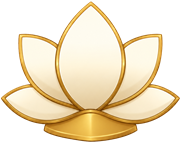
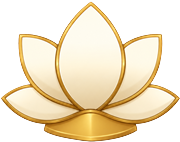
전투화면 화살표 버그, 신통력 3개 이상인데 불 안들어오는 버그, 맵 상단바 자꾸틀어짐 ㅅㅂ 수정, 전투 상세 마우스 오버 툴팁 설정, 쓸데없는 토스트 메시지 수정

diff --git a/mailbox.css b/mailbox.css
@@ -21,7 +21,6 @@
 
 .mailbox-ui-head{
   flex:none; display:flex; align-items:center; gap:1cqw;
-  padding-bottom:1.2cqh; border-bottom:0.15cqh solid var(--c-panel-line);
 }
 .mailbox-ui-title{ flex:1; font-size:2.99cqh; font-weight:900; color:#4a2b07; text-shadow:0 .08cqh 0 rgba(255,255,255,.78); }
 .mailbox-ui-wallet{
@@ -32,14 +31,15 @@
 }
 .mailbox-wallet-icon{ font-size:2.3cqh; }
 .mailbox-ui-close{
-  width:4.2cqh; height:4.2cqh; border-radius:50%; border:0.2cqh solid var(--c-panel-line);
-  background:#fff; color:var(--c-ink); font-size:2.53cqh; font-weight:900; line-height:1; cursor:pointer;
+  flex:none; width:4.4cqh; height:4.4cqh; border:0; border-radius:0; box-shadow:none;
+  background:transparent url("assets/ui_buttons/close.png") center/100% 100% no-repeat;
+  color:transparent; font-size:0; line-height:1; cursor:pointer;
 }
 
 .mailbox-ui-tabs{ flex:none; display:flex; gap:.8cqw; }
 .mailbox-tab{
-  flex:1; height:4.2cqh; border-radius:1cqh; border:0.18cqh solid var(--c-panel-line);
-  background:rgba(255,255,255,.96); color:#3a2408; font:inherit; font-size:1.95cqh; font-weight:900; cursor:pointer;
+  flex:1; height:4.2cqh; border-radius:1cqh; border:0.18cqh solid rgba(184,137,36,.32);
+  background:rgba(255,255,255,.92); color:#5a3b12; font:inherit; font-size:1.95cqh; font-weight:900; cursor:pointer;
   text-shadow:0 .06cqh 0 rgba(255,255,255,.86);
 }
 .mailbox-tab.active{
@@ -54,13 +54,13 @@
 .mailbox-status-msg{ margin:auto; text-align:center; color:#4f3410; font-size:2.07cqh; font-weight:900; text-shadow:0 .06cqh 0 rgba(255,255,255,.7); }
 .mailbox-status-error{ color:var(--c-red-deep); }
 .mailbox-retry-btn{
-  margin:0 auto; height:4cqh; padding:0 1.4cqw; border-radius:1cqh; border:0.18cqh solid var(--c-panel-line);
-  background:#fff; color:var(--c-ink); font:inherit; font-size:1.84cqh; font-weight:900; cursor:pointer;
+  margin:0 auto; height:4cqh; padding:0 1.4cqw; border-radius:1cqh; border:0.18cqh solid rgba(184,137,36,.32);
+  background:#fff; color:#3a2408; font:inherit; font-size:1.84cqh; font-weight:900; cursor:pointer;
 }
 
 .mailbox-item{
-  display:flex; align-items:center; gap:1cqw; background:rgba(255,255,255,.6);
-  border:0.16cqh solid var(--c-panel-line); border-radius:1.2cqh; padding:1.2cqh 1.2cqw;
+  display:flex; align-items:center; gap:1cqw; background:rgba(255,253,242,.66);
+  border:0.16cqh solid rgba(184,137,36,.28); border-radius:1.2cqh; padding:1.2cqh 1.2cqw;
 }
 .mailbox-item.claimed{ opacity:.55; }
 .mailbox-item-icon{ flex:none; font-size:3.68cqh; line-height:1; }
@@ -71,9 +71,9 @@
 .mailbox-item-reward{ color:#8a5a0a; }
 .mailbox-item-expiry{ color:var(--c-red-deep); }
 .mailbox-claim-btn{
-  flex:none; height:4.4cqh; min-width:8cqw; border-radius:1cqh; border:0.2cqh solid var(--c-panel-line);
-  background:linear-gradient(180deg,#4f95dd,#2869b4); color:#fff; font:inherit; font-size:1.84cqh; font-weight:900; cursor:pointer;
-  text-shadow:0 .12cqh .18cqh rgba(15,35,70,.45);
+  flex:none; height:4.4cqh; min-width:8cqw; border-radius:1cqh; border:0.2cqh solid #a97a1f;
+  background:linear-gradient(180deg,#ffe9a8,#d9a53c); color:#4a2b07; font:inherit; font-size:1.84cqh; font-weight:900; cursor:pointer;
+  text-shadow:0 .08cqh 0 rgba(255,255,255,.55);
 }
 .mailbox-claim-btn:disabled{
   background:rgba(238,232,216,.92); color:#5f5140; cursor:default; border-color:rgba(160,130,70,.26);
@@ -99,16 +99,16 @@
 
 .mailbox-ui-actions{ flex:none; display:flex; gap:1cqw; }
 .mailbox-claim-all-btn{
-  flex:1; height:4.6cqh; border-radius:1cqh; border:0.2cqh solid var(--c-panel-line);
+  flex:1; height:4.6cqh; border-radius:1cqh; border:0.2cqh solid #b98924;
   background:linear-gradient(180deg,#fff5d2,#e2bd58); color:#3a2408; font:inherit; font-size:2.07cqh; font-weight:900; cursor:pointer;
-  border-color:#b98924; text-shadow:0 .08cqh 0 rgba(255,255,255,.72);
+  text-shadow:0 .08cqh 0 rgba(255,255,255,.72);
 }
 .mailbox-claim-all-btn:disabled{
   background:rgba(238,232,216,.92); color:#5f5140; cursor:default;
   text-shadow:0 .06cqh 0 rgba(255,255,255,.74);
 }
 .mailbox-close-btn{
-  flex:none; min-width:10cqw; height:4.6cqh; border-radius:1cqh; border:0.2cqh solid var(--c-panel-line);
+  flex:none; min-width:10cqw; height:4.6cqh; border-radius:1cqh; border:0.2cqh solid rgba(184,137,36,.32);
   background:rgba(255,255,255,.96); color:#3a2408; font:inherit; font-size:2.07cqh; font-weight:900; cursor:pointer;
   text-shadow:0 .06cqh 0 rgba(255,255,255,.86);
 }

diff --git a/battleDragDrop.js b/battleDragDrop.js
@@ -3,6 +3,9 @@
    드래그 & 드롭
    ========================================================================= */
 const DRAG_THRESHOLD = 8;
+// 알트탭 등으로 창이 포커스를 잃으면 pointerup/pointercancel이 발생하지 않아
+// 드래그 상태가 정리되지 않고 조준 화살표가 화면에 남는 문제를 방지하기 위한 참조.
+let activeDragCleanup = null;
 function attachDrag(cardEl, index){
   let startX=0, startY=0, dragging=false, pid=null;
   cardEl.addEventListener("pointerdown", down);
@@ -26,6 +29,7 @@ function attachDrag(cardEl, index){
     cardEl.addEventListener("pointermove",   move);
     cardEl.addEventListener("pointerup",     up);
     cardEl.addEventListener("pointercancel", cancel);
+    activeDragCleanup = cleanup;
   }
   function move(ev){
     const dx=ev.clientX-startX, dy=ev.clientY-startY;
@@ -39,7 +43,17 @@ function attachDrag(cardEl, index){
     cardEl.removeEventListener("pointermove",   move);
     cardEl.removeEventListener("pointerup",     up);
     cardEl.removeEventListener("pointercancel", cancel);
+    if(activeDragCleanup===cleanup) activeDragCleanup=null;
   }
+}
+
+window.addEventListener("blur", forceEndActiveDrag);
+document.addEventListener("visibilitychange", function(){
+  if(document.hidden) forceEndActiveDrag();
+});
+function forceEndActiveDrag(){
+  if(activeDragCleanup){ const fn=activeDragCleanup; activeDragCleanup=null; fn(); }
+  if(dragState) endDrag();
 }
 
 let dragState = null;

diff --git a/mapUI.css b/mapUI.css
@@ -33,8 +33,8 @@
   /* 배경 아트(둥근 알약 모양 플레이트) 위에 얹히는 텍스트라 자체 배경/테두리는
      그리지 않는다. 플레이트 중앙에 오도록 오른쪽/아래로 살짝 이동만 준다. */
   position: absolute;
-  left: 6.2%;
-  top: 68%;
+  left: 7%;
+  top: 65%;
   display: flex;
   align-items: center;
   gap: 0.6cqw;
@@ -77,7 +77,7 @@
 }
 .dmap-title-char {
   position: absolute;
-  top: 0.7cqh;
+  top: 1.3cqh;
   display: block;
   width: 4.8cqh;
   height: 4.8cqh;
@@ -127,7 +127,7 @@
      당겨져 있으므로, 플레이타임도 그만큼 왼쪽으로 당겨 서로 겹치지 않게 한다. */
   position: absolute;
   left: 76%;
-  top: 50%;
+  top: calc(50% + 0.6cqh);
   display: flex;
   align-items: center;
   gap: 0.5cqw;
@@ -147,8 +147,8 @@
 
 .dmap-close {
   position: absolute;
-  right: 6.5cqw;
-  top: 50%;
+  right: 5.5cqw;
+  top: calc(50% + 0.6cqh);
   justify-self: auto;
   width: 4.6cqh;
   height: 4.6cqh;

diff --git a/settingsViewer.js b/settingsViewer.js
@@ -462,17 +462,17 @@
       ".settings-viewer.show{display:grid;}" +
       ".settings-viewer.start-mode{z-index:300!important;}" +
       ".settings-viewer-panel{position:relative;width:min(86cqw,124cqh);max-height:86cqh;display:flex;flex-direction:column;background:transparent url('assets/ui/settings/outer_panel.png') center/100% 100% no-repeat;border:0;border-radius:1.6cqh;box-shadow:0 2cqh 4cqh rgba(0,0,0,.28);padding:3.2cqh 3cqw 2.8cqh;}" +
-      ".settings-viewer-head{display:flex;align-items:center;gap:1cqw;padding-bottom:1.2cqh;border-bottom:0.15cqh solid var(--c-panel-line);}" +
-      ".settings-viewer-head h2{font-size:3cqh;line-height:1;flex:1;}" +
+      ".settings-viewer-head{display:flex;align-items:center;gap:1cqw;padding-bottom:1.2cqh;}" +
+      ".settings-viewer-head h2{font-size:3cqh;line-height:1;flex:1;color:#4a2b07;}" +
       ".settings-viewer-help{width:4.4cqh;height:4.4cqh;border:0;background:transparent url('assets/ui/settings/help.png') center/contain no-repeat;color:transparent;font-size:0;line-height:1;cursor:pointer;}" +
       ".settings-viewer-close{width:4.8cqh;height:4.8cqh;border:0;background:transparent url('assets/ui/settings/close.png') center/contain no-repeat;color:transparent;font-size:0;line-height:1;cursor:pointer;}" +
       ".settings-viewer-body{padding:2cqh 0 0;min-height:18cqh;display:flex;flex-direction:column;gap:2cqh;}" +
       ".settings-viewer-section{border:0.18cqh solid var(--c-panel-line);border-radius:1.2cqh;background:rgba(255,255,255,.58);padding:1.6cqh 1.4cqw;}" +
       ".settings-viewer-section:not(.settings-account-section){background:transparent url('assets/ui/settings/settings_panel.png') center/100% 100% no-repeat;border:0;padding:2.1cqh 2cqw;}" +
       ".settings-account-section{position:relative;background:transparent url('assets/ui/settings/account_info_panel.png') center/100% 100% no-repeat;border:0;padding:2.1cqh 2cqw;}" +
-      ".settings-viewer-section h3{font-size:2.1cqh;margin-bottom:1.4cqh;color:var(--c-ink);}" +
-      ".settings-viewer-volume{display:grid;grid-template-columns:8cqw minmax(0,1fr) 3.4cqw 4.2cqh;align-items:center;gap:1cqw;margin-top:1.4cqh;color:var(--c-ink-soft);font-size:1.7cqh;font-weight:800;}" +
-      ".settings-viewer-volume output{text-align:right;color:var(--c-ink);font-weight:900;}" +
+      ".settings-viewer-section h3{font-size:2.1cqh;margin-bottom:1.4cqh;color:#4a2b07;}" +
+      ".settings-viewer-volume{display:grid;grid-template-columns:8cqw minmax(0,1fr) 3.4cqw 4.2cqh;align-items:center;gap:1cqw;margin-top:1.4cqh;color:#6f4210;font-size:1.7cqh;font-weight:800;}" +
+      ".settings-viewer-volume output{text-align:right;color:#3a2408;font-weight:900;}" +
       ".settings-viewer-volume input[type=\"range\"]{-webkit-appearance:none;appearance:none;width:100%;height:3.2cqh;background:transparent;margin:0;padding:0;cursor:pointer;}" +
       ".settings-viewer-volume input[type=\"range\"]::-webkit-slider-runnable-track{height:.9cqh;border-radius:1cqh;background:linear-gradient(90deg,var(--c-gold-deep) 0%,var(--c-gold) var(--val,50%),rgba(255,255,255,.6) var(--val,50%),rgba(255,255,255,.6) 100%);border:.12cqh solid var(--c-gold-deep);box-shadow:inset 0 .12cqh .22cqh rgba(90,60,10,.28);}" +
       ".settings-viewer-volume input[type=\"range\"]::-webkit-slider-thumb{-webkit-appearance:none;appearance:none;width:3cqh;height:3cqh;margin-top:-1.05cqh;border-radius:50%;background:#fdf1da url('assets/ui/settings/volume_icon.png') center/68% no-repeat;border:.16cqh solid var(--c-gold-deep);box-shadow:0 .2cqh .4cqh rgba(90,60,10,.35);}" +

diff --git a/auth.css b/auth.css
@@ -129,7 +129,7 @@
 .settings-account-status{
   display:grid;
   gap:.8cqh;
-  color:var(--c-ink-soft);
+  color:#6f4210;
   font-size:1.84cqh;
   font-weight:800;
 }
@@ -140,7 +140,7 @@
   align-items:start;
 }
 .settings-account-label{
-  color:var(--c-ink);
+  color:#6f4210;
   font-weight:900;
 }
 .settings-account-value{
@@ -148,6 +148,7 @@
   overflow:hidden;
   text-overflow:ellipsis;
   white-space:nowrap;
+  color:#3a2408;
 }
 .settings-account-actions{
   display:flex;
@@ -157,11 +158,11 @@
 }
 .settings-account-actions button{
   height:3.9cqh;
-  border:.18cqh solid var(--c-panel-line);
+  border:.18cqh solid rgba(184,137,36,.32);
   border-radius:.9cqh;
   padding:0 1.2cqw;
   background:#fff;
-  color:var(--c-ink);
+  color:#3a2408;
   font:inherit;
   font-size:1.78cqh;
   font-weight:900;

diff --git a/startBlessing.js b/startBlessing.js
@@ -199,8 +199,6 @@ function completeSbBlessing(blessing){
   /* 신령의 은혜 화면은 여기서 닫지 않는다. 여정(맵) 오버레이가 그 위에
      반투명하게 떠야 하므로(플레이어가 맵만 닫고 은혜 화면으로 돌아올 수도
      있음), 실제 전투 진입 시점(startStage 후킹)에서만 배경을 정리한다. */
-  if(typeof toast === "function") toast(blessing.name + "의 은혜를 받았습니다.");
-
   if(window.MAP_STATE){
     window.MAP_STATE.currentStage = -1;   // 현재 위치: 로비(신령의 은혜)
     window.MAP_STATE.proceedMode  = true; // 다음 노드(1층) 선택 가능

diff --git a/treasureNode.js b/treasureNode.js
@@ -216,7 +216,6 @@ function onTreasureChestClick(){
     S.gold = (S.gold || 0) + TREASURE_GOLD_AMOUNT;
     state.goldGranted = true;
     if(typeof renderHud === "function") renderHud();
-    if(typeof toast === "function") toast("복채 " + TREASURE_GOLD_AMOUNT + "을(를) 얻었습니다.");
   }
 
   if(state.offeredRelicId === null){
@@ -339,7 +338,6 @@ function onTreasureRelicTake(){
     return;
   }
 
-  if(typeof toast === "function") toast((relic.emoji || "🏺") + " " + relic.name + " 법구를 획득했습니다.");
   finishTreasureNode();
 }
 

diff --git a/eventNode.js b/eventNode.js
@@ -978,7 +978,6 @@ function confirmEventCard(){
         }
       }
     }
-    if(typeof toast === "function") toast(card.name + " 주문을 덱에 추가했습니다.");
   }
   finishEventNode();
 }

diff --git a/runResult.js b/runResult.js
@@ -905,6 +905,7 @@ function rrItemCardHtml(icon, name, count){
   return '<div class="rr-item-card" title="' + escapeRrHtml(name || "") + '">' +
     badge +
     '<div class="rr-item-card-icon">' + rrItemIconHtml(icon) + '</div>' +
+    '<span class="sr-only rr-item-card-name">' + escapeRrHtml(name || "") + '</span>' +
   '</div>';
 }
 